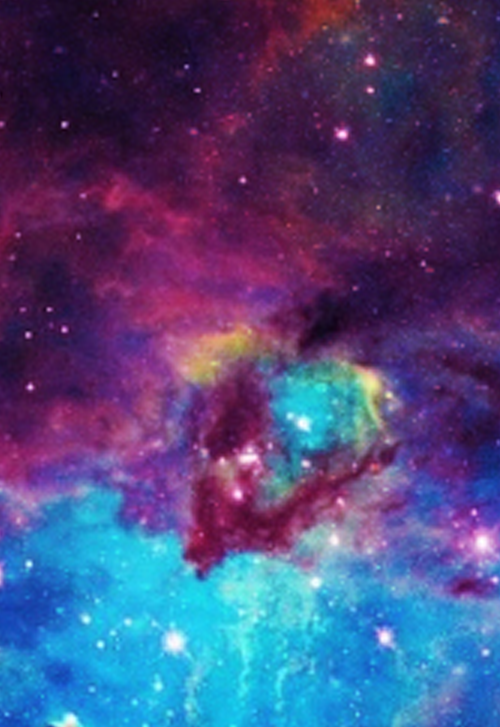
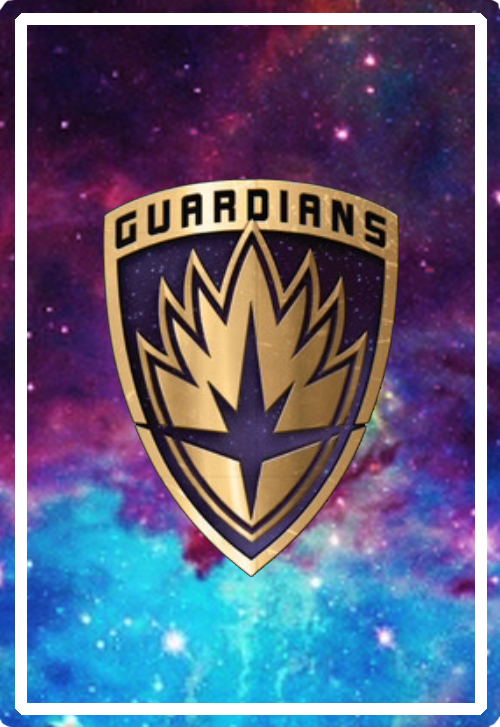
home page and how to play page created

diff --git a/how-to-play.html b/how-to-play.html
@@ -1,0 +1,40 @@
+<!DOCTYPE html>
+<html lang="en">
+<head>
+    <meta charset="UTF-8">
+    <meta name="viewport" content="width=device-width, initial-scale=1.0">
+    <meta http-equiv="X-UA-Compatible" content="ie=edge">
+    <title>How to play</title>
+</head>
+<body>
+    <div class="container">
+        <div class="instructions">
+            <h1>How to Play:</h1>
+            <h2>Scoring:</h2>
+            <ul>
+                <li>Aces are high.</li>
+                <li>Any pair beats any non-pair.</li>
+                <li>A higher pair beats a lower pair.</li>
+                <li>Between two non-pairs, the higher card wins.</li>
+                <li>When both player have the same high card, the other card determines the winner.</li>
+
+            </ul>
+            <h2>Playing Guts:</h2>
+            <ol>
+                <li>Press the <button disabled>Deal</button> button to start a new round and deal the cards.</li>
+                <li> Choose <button disabled>IN</button> or <button disabled>OUT</button> to play your hand or fold your cards.</li>
+                <li>If you're IN: get 2 point if you beat your opponent; lose 2 points if you're beaten.</li>
+                <li>If you're OUT: lose 1 point.</li>
+                <li>When the deck runs out, whoever has more points wins.</li>
+            </ol>
+        </div>
+        <div>  
+                <input type="button" value="play" onclick="window.location.href='gameroom.html'"/>
+        </div>
+        <div>  
+                <input type="button" value="Back Home" onclick="window.location.href='home.html'"/>
+        </div>
+    </div>
+    
+</body>
+</html>

diff --git a/css/home.css b/css/home.css
@@ -1,0 +1,52 @@
+@font-face {
+    font-family: Guardians;
+    src: url(/Guardians.ttf);
+    }
+
+body {
+    background-image: url('galaxy_background.jpg');
+    background-color: black;
+    background-repeat: no-repeat;
+    background-size: cover;
+    color: white;
+    
+}
+
+.container {
+  
+   
+}
+
+.title {
+    width: 100%;
+    text-align: center;
+    font-size: 3em;
+    font-family: Guardians, Arial, Helvetica, sans-serif;
+    color: gold;
+}
+
+h1 {
+    margin: 50px auto 10px;
+    text-shadow: 2px 6px 5px rgb(62, 0, 62);
+}
+
+.tag-line {
+    font-family: Guardians, Arial, Helvetica, sans-serif;
+    color: gold;
+    text-align: center;
+    text-shadow: 2px 2px 5px rgb(62, 0, 62);
+}
+
+.menu {
+    height: 500px;
+    display: flex;
+    flex-direction: column;
+    justify-content: space-evenly;  
+    text-align: center;
+}
+
+a {
+    text-decoration: none;
+    display: block;
+    font-size: 3em;
+}

diff --git a/home.html b/home.html
@@ -5,9 +5,27 @@
     <meta name="viewport" content="width=device-width, initial-scale=1.0">
     <meta http-equiv="X-UA-Compatible" content="ie=edge">
     <title>Document</title>
+    <link href="css/home.css" rel="stylesheet" type="text/css">
 </head>
 <body>
-    <h1>Home Page</h1>
-    
+    <div class="container">
+        <div class="top>">
+
+        </div>
+
+        <div class="title">
+            <h1>Guts</h1>
+        </div>
+
+        <div class="tag-line">
+            <h3>A game for the wicked</h3>
+        </div>
+
+        <div class="menu">
+            <a href="how-to-play.html">How to play</a>
+            <a href="gameroom.html">Play!</a>
+            <a href="about.html">About us</a>
+        </div>
+    </div>  
 </body>
 </html>

diff --git a/about.html b/about.html
@@ -38,6 +38,9 @@
             </section>
         </section>
     </section>
+    <div>
+            <input type="button" value="Back to Home Page" onclick="window.location.href='home.html'"/>
+    </div>
 
 </body>
 </html>
